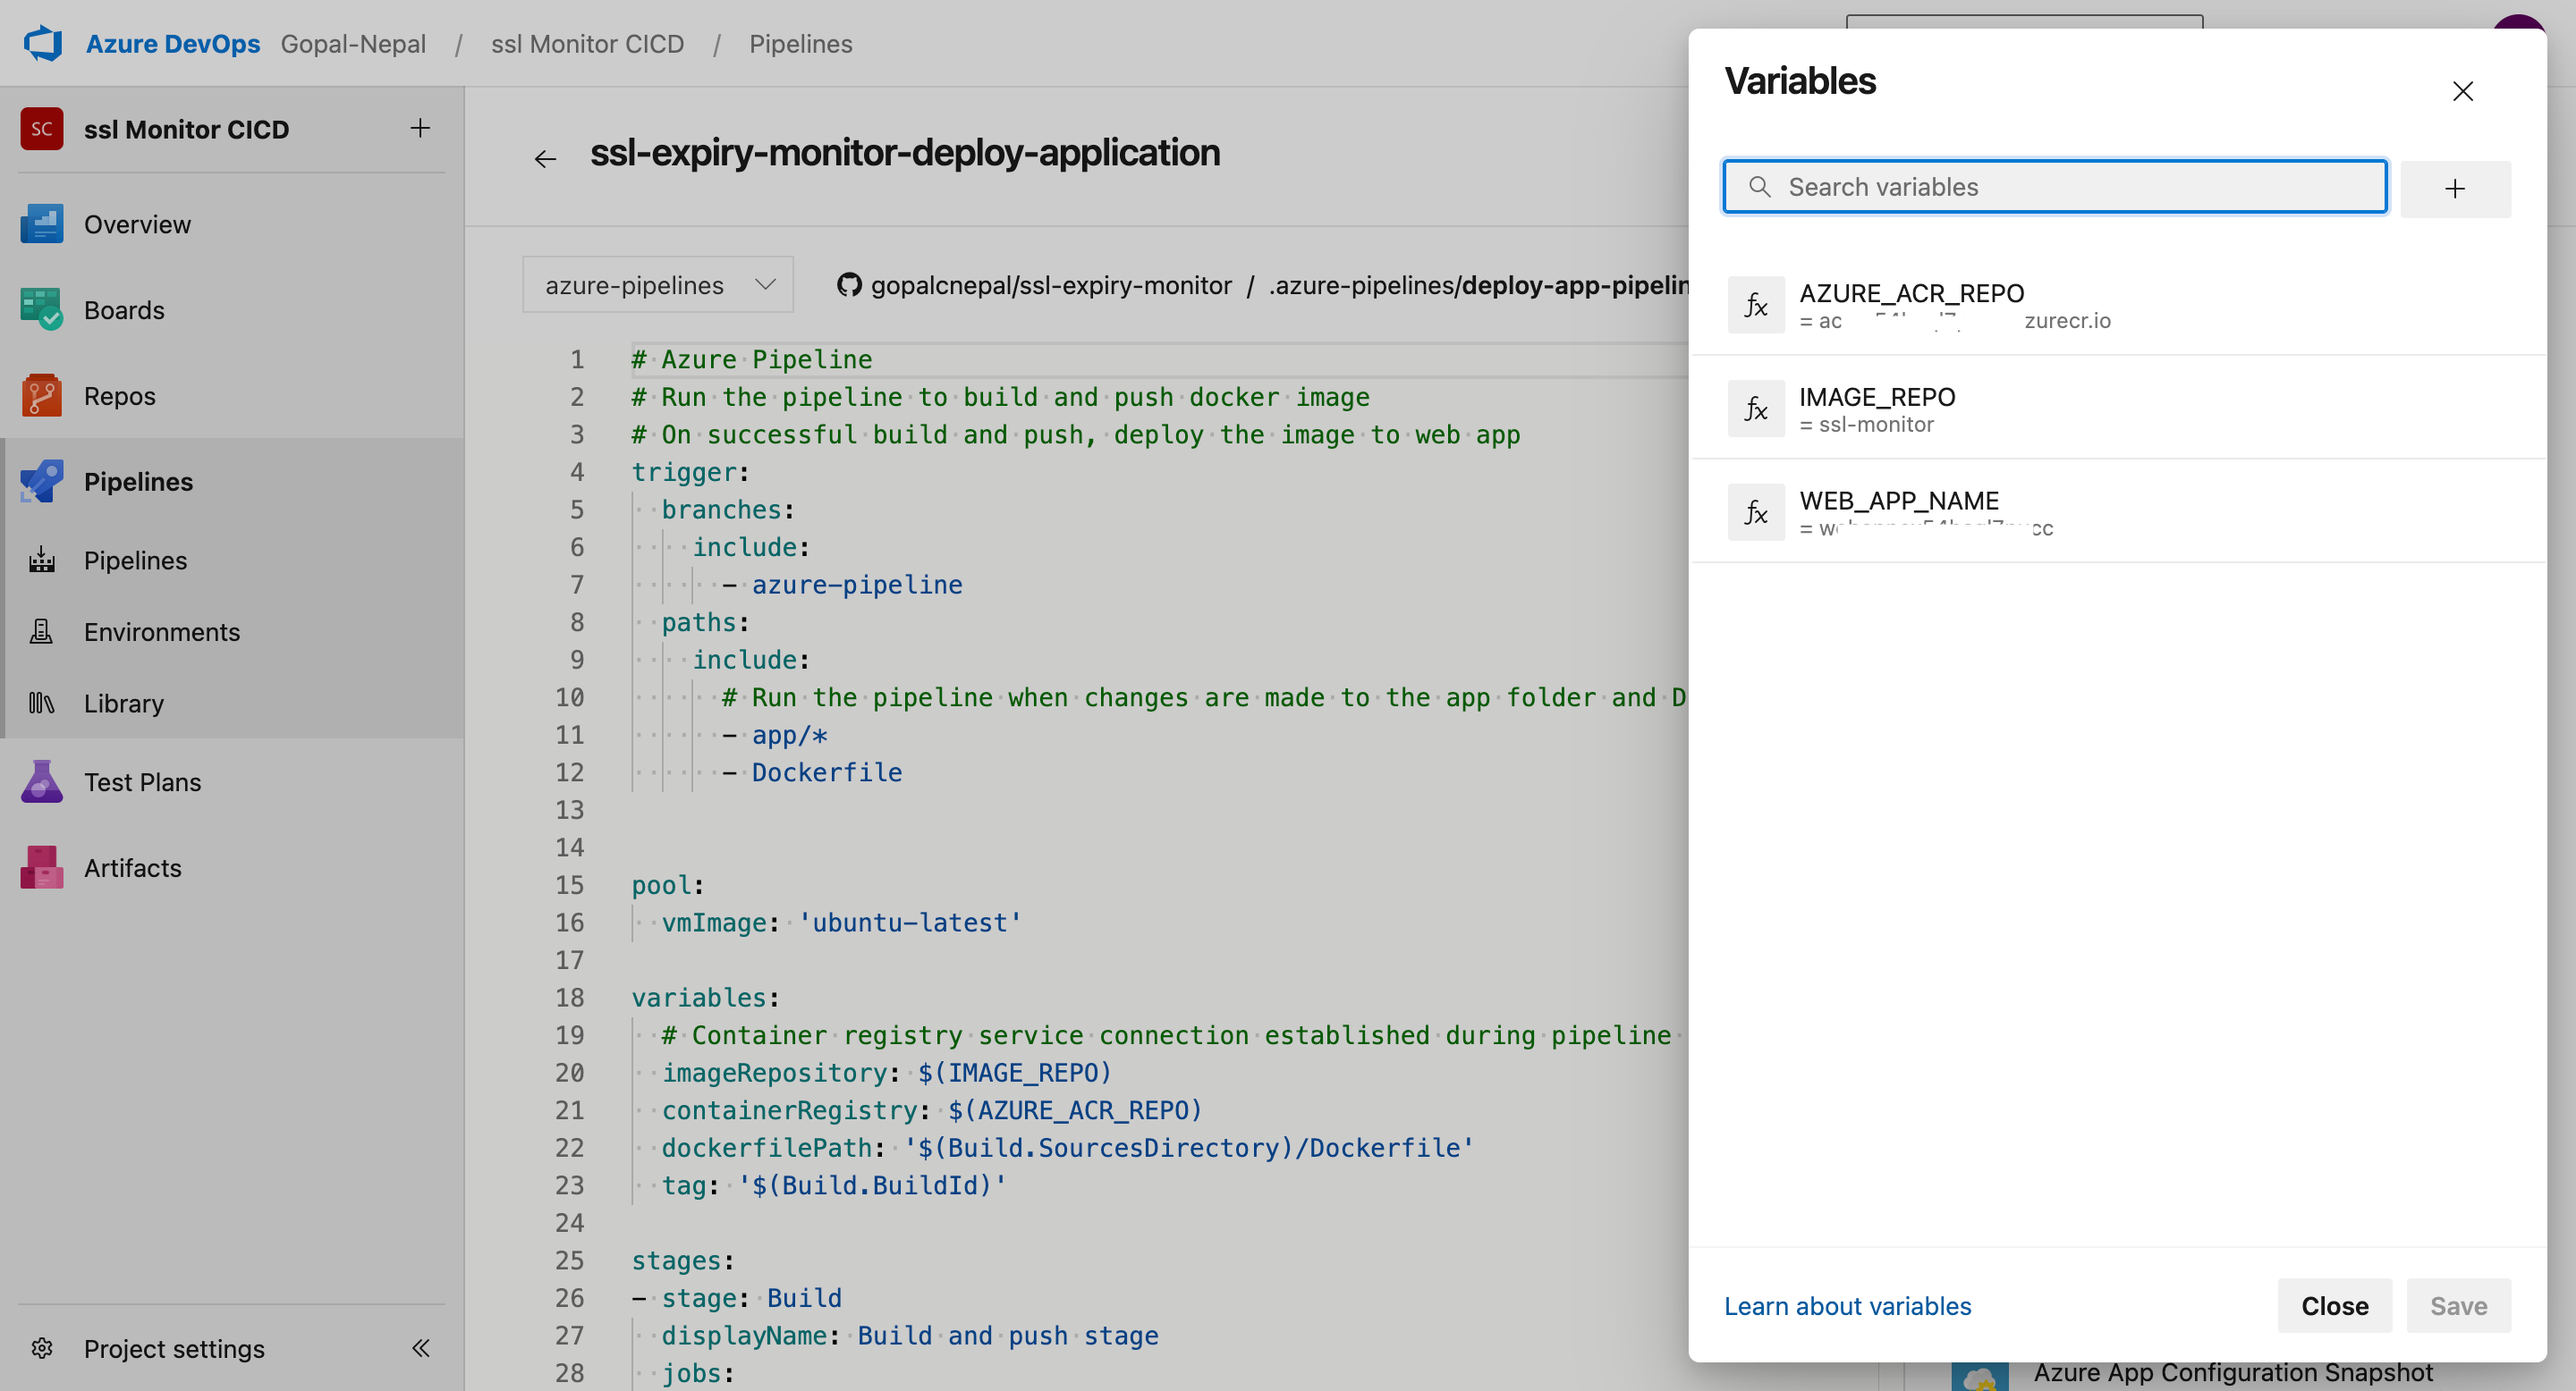
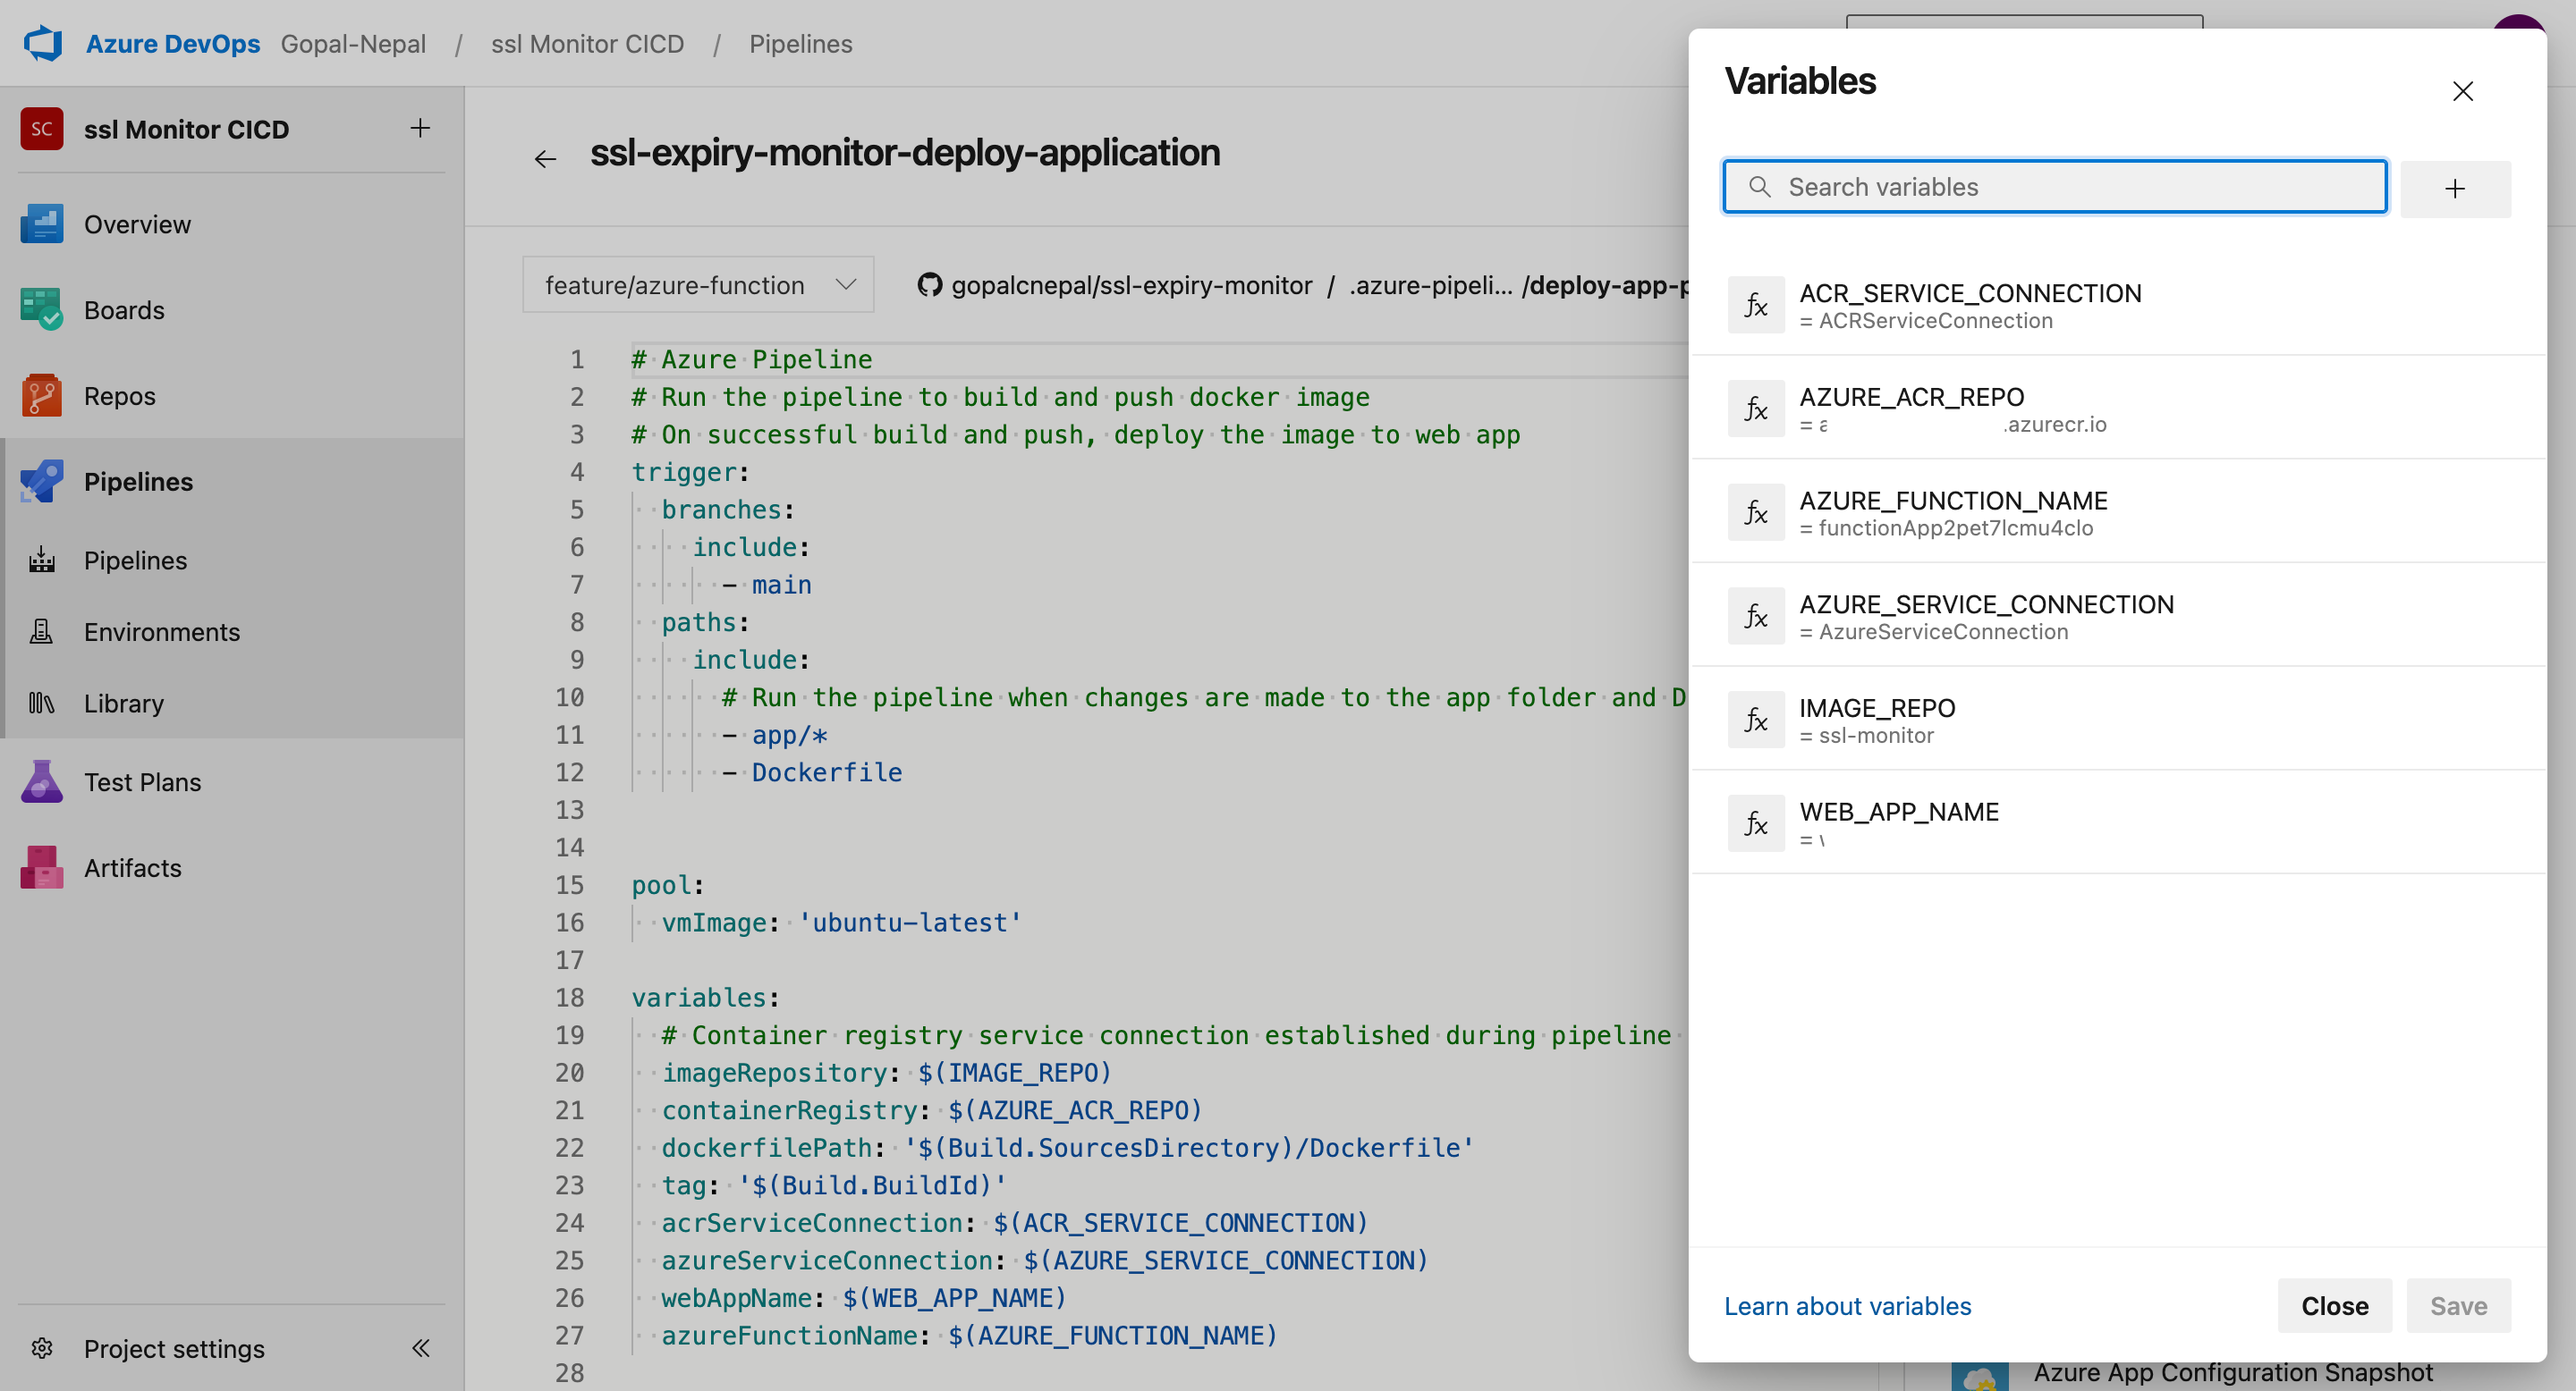
Updated Readme file and screenshot.

diff --git a/README.md b/README.md
@@ -39,6 +39,11 @@ Key features:
 * Visual alerts for certificates expiring soon
 * Add notes for each domain
 * Easy-to-use dashboard interface
+* CICD using Azure Devops for Infrastructure and application deployment
+* Key Vault for secure secret access
+* Azure Funtion for updating domain as per scheduled time
+* Integration with various Azure resources
+* Azure Bicep for creating resources
 
 ### System Architecture and Overall Flow
 ![SSL Monitor Dashboard Architecture](./screenshot/azure_resource_architecture.png)
@@ -50,6 +55,7 @@ Key features:
 * ![SQLAlchemy][SQLAlchemy]
 * ![SQLite][SQLite]
 * ![Docker][Docker]
+* ![Azure][Azure]
 
 ## Getting Started
 
@@ -183,9 +189,12 @@ The project contains two pipelines:
    * Path: `.azure-pipelines/deploy-app-pipeline.yml`
    * Configure variables:
      ```yaml
+     ACR_SERVICE_CONNECTION
+     AZURE_SERVICE_CONNECTION
      IMAGE_REPO
      AZURE_ACR_REPO
      WEB_APP_NAME
+     AZURE_FUNCTION_NAME
      ```
      ![App Deploy Pipeline](./screenshot/app_deploy_pipeline.png)
 
@@ -258,4 +267,5 @@ Project Link: [https://github.com/gopalcnepal/ssl-expiry-monitor](https://github
 [Bootstrap]: https://img.shields.io/badge/Bootstrap-563D7C?style=for-the-badge&logo=bootstrap&logoColor=white
 [SQLAlchemy]: https://img.shields.io/badge/SQLAlchemy-FF0000?style=for-the-badge&logo=python&logoColor=white
 [SQLite]: https://img.shields.io/badge/SQLite-07405E?style=for-the-badge&logo=sqlite&logoColor=white
-[Docker]: https://img.shields.io/badge/Docker-0000FF?style=for-the-badge&logo=sqlite&logoColor=white
+[Docker]: https://img.shields.io/badge/Docker-0000FF?style=for-the-badge&logo=docker&logoColor=white
+[Azure]: https://custom-icon-badges.demolab.com/badge/Microsoft%20Azure-0089D6?logo=msazure&logoColor=white
